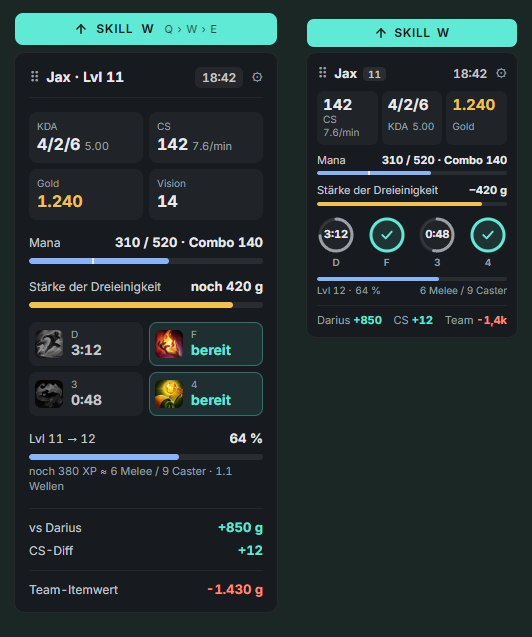
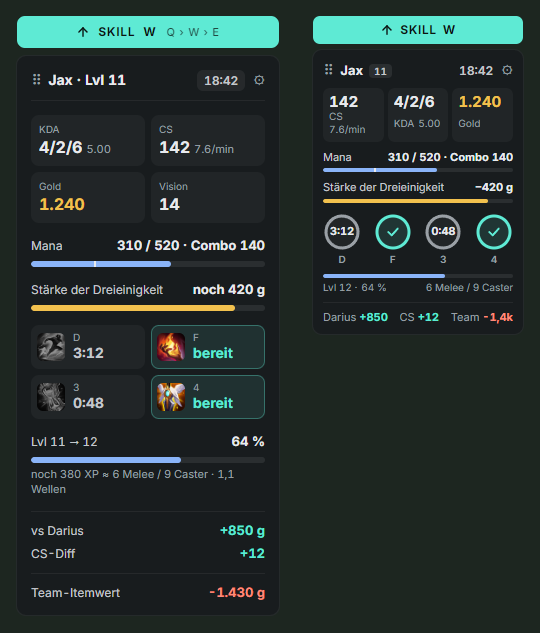
Englische Panel-Screenshots für Website, README und Vorschaubild
tools/render-docs-panel.js rendert das Bild (normal und kompakt nebeneinander) mit festen Beispieldaten,
deutsch nach docs/panel.png, mit --en nach docs/panel-en.png.

diff --git a/tools/render-docs-panel.js b/tools/render-docs-panel.js
@@ -1,0 +1,68 @@
+// Rendert das Panel-Bild für README und Website: normales und kompaktes Panel nebeneinander, mit festen
+// Beispieldaten (Jax gegen Darius) statt eines echten Spiels. Ergebnis: docs/panel.png bzw. mit --en docs/panel-en.png.
+// Start: npx electron tools/render-docs-panel.js [--en]
+const { app, BrowserWindow } = require('electron');
+const fs = require('fs');
+const path = require('path');
+const lang = require('./lang');
+
+const DD = 'https://ddragon.leagueoflegends.com/cdn/16.21.1/img';
+const en = !!lang.suffix;
+const summary = {
+  gameTime: 18 * 60 + 42, gameMode: 'CLASSIC', champion: 'Jax', championId: 'Jax', level: 11,
+  gold: 1240, kda: '4/2/6', kdaRatio: '5.00', cs: 142, csExact: true, csPerMin: '7.6', wardScore: 14,
+  myItemValue: 6850, laneOpponent: { champion: 'Darius', itemValue: 6000, cs: 130, isDead: false }, teamItemDiff: -1430,
+  mana: { value: 310, max: 520, percent: 60, combo: 140, low: false },
+  build: { name: en ? 'Trinity Force' : 'Stärke der Dreieinigkeit', missing: 420, progress: 87, affordable: false },
+  skill: { next: 'W', open: 1, priority: ['Q', 'W', 'E'] },
+  spells: [
+    { key: 'D', ready: false, cd: 192, icon: `${DD}/spell/SummonerFlash.png` },
+    { key: 'F', ready: true, cd: null, icon: `${DD}/spell/SummonerDot.png` },
+  ],
+  itemCds: [
+    { key: '3', ready: false, cd: 48, icon: `${DD}/item/3157.png` },
+    { key: '4', ready: true, cd: null, icon: `${DD}/item/3026.png` },
+  ],
+  xp: { percent: 64, missing: 380, melee: 6, caster: 9, waves: '1.1' },
+};
+const SETTINGS = { modules: {}, scale: 1, bgTransparency: 30, hoverTransparency: 20, clickThrough: true };
+
+// Ein Panel rendern und auf seinen Rahmen zuschneiden
+async function panelShot(root, compact) {
+  const win = new BrowserWindow({
+    width: 320, height: 900, show: false, backgroundColor: '#1d2620',
+    webPreferences: { preload: path.join(root, 'preload.js') },
+  });
+  await win.loadFile(path.join(root, 'renderer', 'overlay.html'));
+  win.webContents.send('overlay-settings', { ...SETTINGS, compact });
+  win.webContents.send('panel-pos', { x: 16, y: 80 });
+  win.webContents.send('game', summary);
+  await new Promise((r) => setTimeout(r, 2500)); // Webfonts und Icons laden lassen
+  const r = await win.webContents.executeJavaScript(
+    '(() => { const b = document.getElementById("panel").getBoundingClientRect(); const a = document.querySelector(".alerts").getBoundingClientRect();' +
+    ' return { x: b.x, y: b.y, w: b.width, h: b.height, top: Math.min(b.y, a.height ? a.y : b.y) }; })()');
+  // Warn-Pillen sitzen über dem Panel-Rahmen: ab ihrer Oberkante zuschneiden
+  const top = Math.max(0, Math.floor(r.top) - 16);
+  const img = await win.webContents.capturePage({ x: 0, y: top, width: Math.ceil(r.x + r.w) + 16, height: Math.ceil(r.y + r.h) - top + 16 });
+  win.destroy();
+  return img;
+}
+
+// zwischen den Aufnahmen ist kurz kein Fenster offen; ohne diesen Handler würde Electron dann beenden
+app.on('window-all-closed', () => {});
+
+app.whenReady().then(async () => {
+  const root = path.join(__dirname, '..');
+  const [full, small] = [await panelShot(root, false), await panelShot(root, true)];
+  // beide nebeneinander, oben bündig
+  const a = full.getSize(), b = small.getSize();
+  const html = `<body style="margin:0;background:#1d2620;display:flex;align-items:flex-start">` +
+    `<img src="${full.toDataURL()}" width="${a.width}"><img src="${small.toDataURL()}" width="${b.width}"></body>`;
+  const win = new BrowserWindow({ width: a.width + b.width, height: Math.max(a.height, b.height), show: false, useContentSize: true });
+  await win.loadURL(`data:text/html;charset=utf-8,${encodeURIComponent(html)}`);
+  await new Promise((r) => setTimeout(r, 300));
+  const out = path.join(root, 'docs', `panel${lang.suffix}.png`);
+  fs.writeFileSync(out, (await win.webContents.capturePage()).toPNG());
+  console.log(out, win.getContentSize().join('×'));
+  app.quit();
+});

diff --git a/docs/summoner-spell-timer/index.html b/docs/summoner-spell-timer/index.html
@@ -20,7 +20,7 @@
     "@graph": [
       { "@type": "Article", "headline": "Summoner spell timer overlay for League of Legends",
         "author": { "@type": "Person", "name": "Jamy Haas", "url": "https://github.com/JamyH" },
-        "datePublished": "2026-10-26", "image": "https://jamyh.github.io/all-you-need/panel.png",
+        "datePublished": "2026-10-26", "image": "https://jamyh.github.io/all-you-need/panel-en.png",
         "mainEntityOfPage": "https://jamyh.github.io/all-you-need/summoner-spell-timer/" },
       { "@type": "BreadcrumbList", "itemListElement": [
         { "@type": "ListItem", "position": 1, "name": "All You Need", "item": "https://jamyh.github.io/all-you-need/" },
@@ -60,7 +60,7 @@
             their item key (1–6).</td></tr>
           <tr><td>Compact mode</td><td>All cooldowns as rings that drain with the remaining time, in a narrower panel.</td></tr>
         </table>
-        <img class="shot" src="../panel.png" width="532" height="637" loading="lazy" alt="League of Legends overlay panel with Summoner Spell cooldown countdown and ready state">
+        <img class="shot" src="../panel-en.png" width="540" height="618" loading="lazy" alt="League of Legends overlay panel with Summoner Spell cooldown countdown and ready state">
 
         <h2>How it works</h2>
         <p>League shows the remaining cooldown on your own Summoner Spells in the HUD. When a spell goes on cooldown, the

diff --git a/docs/index.html b/docs/index.html
@@ -37,7 +37,7 @@
         "offers": { "@type": "Offer", "price": "0", "priceCurrency": "EUR" },
         "url": "https://jamyh.github.io/all-you-need/",
         "downloadUrl": "https://github.com/JamyH/all-you-need/releases/latest",
-        "screenshot": "https://jamyh.github.io/all-you-need/panel.png",
+        "screenshot": "https://jamyh.github.io/all-you-need/panel-en.png",
         "license": "https://opensource.org/licenses/MIT",
         "isAccessibleForFree": true,
         "author": { "@type": "Person", "name": "Jamy Haas", "url": "https://github.com/JamyH" },
@@ -98,7 +98,7 @@
           </div>
           <div class="meta" id="dl-meta" data-rest="free · open source (MIT) · English &amp; German">Free · open source (MIT) · no account, no ads, no Overwolf · English &amp; German</div>
         </div>
-        <img class="shot" src="panel.png" width="532" height="637" alt="All You Need in-game panel in League of Legends showing KDA, exact CS, gold, mana with combo cost, summoner spell cooldowns and XP to the next level">
+        <img class="shot" src="panel-en.png" width="540" height="618" alt="All You Need in-game panel in League of Legends showing KDA, exact CS, gold, mana with combo cost, summoner spell cooldowns and XP to the next level">
       </div>
 
       <section id="features">

diff --git a/docs/de/index.html b/docs/de/index.html
@@ -88,7 +88,7 @@
           </div>
           <div class="meta" id="dl-meta" data-rest="kostenlos · Open Source (MIT) · Deutsch &amp; Englisch">Kostenlos · Open Source (MIT) · ohne Konto, Werbung und Overwolf · Deutsch &amp; Englisch</div>
         </div>
-        <img class="shot" src="../panel.png" width="532" height="637" alt="All-You-Need-Panel in League of Legends mit KDA, exaktem CS, Gold, Mana samt Combo-Kosten, Summoner-Cooldowns und XP bis zum nächsten Level">
+        <img class="shot" src="../panel.png" width="540" height="633" alt="All-You-Need-Panel in League of Legends mit KDA, exaktem CS, Gold, Mana samt Combo-Kosten, Summoner-Cooldowns und XP bis zum nächsten Level">
       </div>
 
       <section id="funktionen">

diff --git a/docs/lol-cs-tracker/index.html b/docs/lol-cs-tracker/index.html
@@ -20,7 +20,7 @@
     "@graph": [
       { "@type": "Article", "headline": "Exact CS counter for League of Legends",
         "author": { "@type": "Person", "name": "Jamy Haas", "url": "https://github.com/JamyH" },
-        "datePublished": "2026-10-26", "image": "https://jamyh.github.io/all-you-need/panel.png",
+        "datePublished": "2026-10-26", "image": "https://jamyh.github.io/all-you-need/panel-en.png",
         "mainEntityOfPage": "https://jamyh.github.io/all-you-need/lol-cs-tracker/" },
       { "@type": "BreadcrumbList", "itemListElement": [
         { "@type": "ListItem", "position": 1, "name": "All You Need", "item": "https://jamyh.github.io/all-you-need/" },

diff --git a/tools/social-preview.html b/tools/social-preview.html
@@ -32,6 +32,6 @@
       <span>Gold to next item</span><span>Auto runes</span>
     </div>
   </div>
-  <img class="shot" src="../docs/panel.png" alt="">
+  <img class="shot" src="../docs/panel-en.png" alt="">
 </body>
 </html>

diff --git a/README.md b/README.md
@@ -13,7 +13,7 @@ game process.
 > on first start it follows your Windows language.
 
 <p>
-  <img src="docs/panel.png" alt="In-game panel" height="360">
+  <img src="docs/panel-en.png" alt="In-game panel with exact CS, summoner spell cooldowns and mana for your combo" height="360">
   <img src="docs/stats-history.png" alt="Stats window with trends" height="360">
 </p>
 
